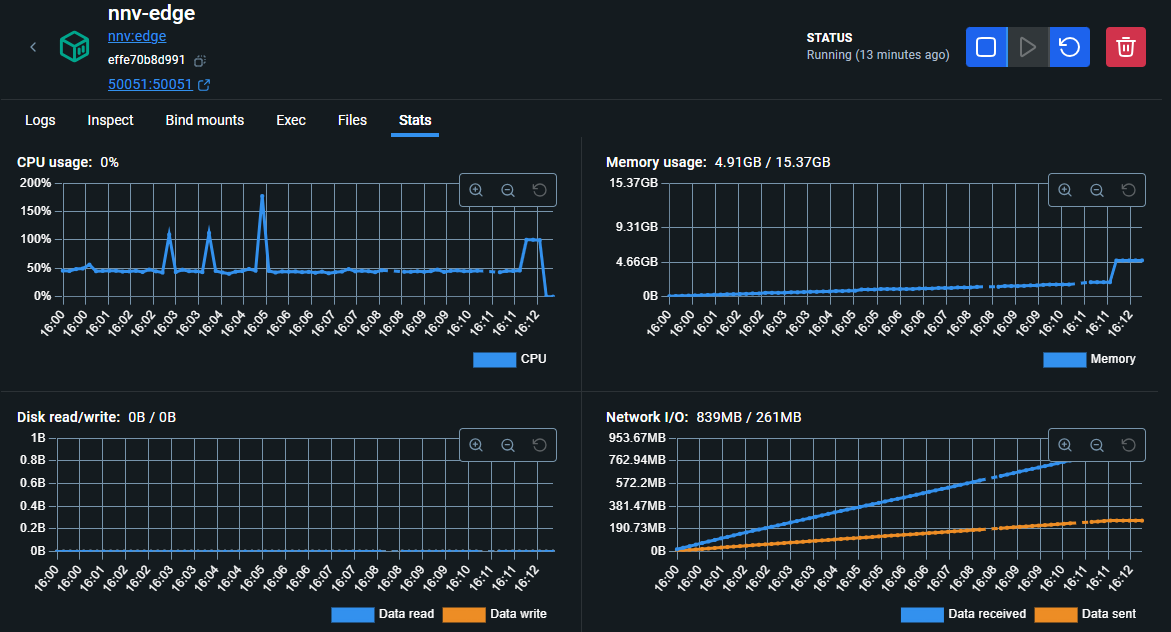
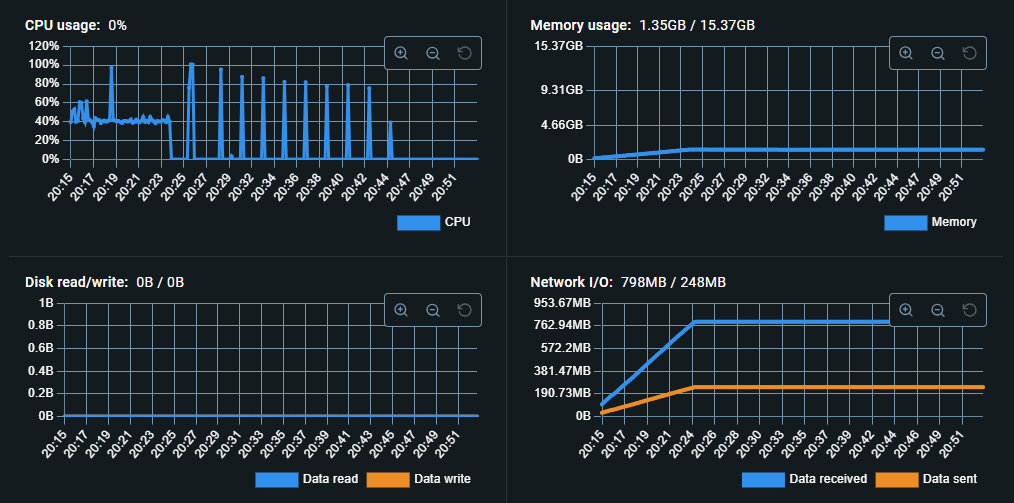
UPDATE 11.20

diff --git a/README.md b/README.md
@@ -4,7 +4,7 @@
 
 NNV (No-Named.V) is a database designed to be implemented from scratch to production. NNV can be deployed in edge environments and used in small-scale production settings. Through the innovative architectural approach described below, it is envisioned and developed to be used reliably in large-scale production environments as well.
 
-## 🎉 Release Update - 2024.11.14
+## 🎉 Release Update - 2024.11.20
 
 For the full update history, see [UPDATE HISTORY](./UPDATE-LOG.md).
 
@@ -12,22 +12,30 @@ For the full update history, see [UPDATE HISTORY](./UPDATE-LOG.md).
 
 ### 🔹 NNV-Edge
 
-- No updates in this release.
+Please [note](./examples/release/2024_11_20_release.md) that the performance comparison is not intended to evaluate the superiority of the software. There are still many shortcomings, and although the repository's history is short, I just want to show indicators of steady progress.
+
+#### Enhancements
+
+- **Edge Performance Improvement**: Enhanced the performance of Edge.
+- **Decreased Storage Requirement**: Reduced the storage needed for 1,000,000 128-dimensional vectors from **2.5GB** to **1.35GB** (Milvus: **1.46GB**).
+- **Average Search Time** for 1,000,000 128-dimensional vectors: **0.22 sec** (Milvus: **0.04 sec**).
+- **Continuous Performance Enhancement**:
+  - Clearly identified points for ongoing performance improvements.
+  - Discovered that efficient parallel search using a worker pool and iterating over the vector space as an array significantly boosts performance.
+  - These enhancements require rewriting specific code sections and are planned for long-term development.
+  - Retrieving all data from disk introduces overhead; therefore, combining disk access with memory usage is necessary.
+- **Data Storage**: Data is stored on disk with only the flush operation for indexing remaining.
+- **Safe Recovery**: Even if the server crashes, indexes and all data can be safely recovered.
 
 ---
 
 ### 🔹 NNV
 
-See the [detailed comparison with ChromaDB for search results](./examples/release/2024_11_14_release.md).
-
-#### Enhancements
-
-- **Restored HNSW**: The previously used HNSW algorithm has been reintroduced.
-- **New Product Quantization (PQ)**: HNSW Product Quantization has been added for improved efficiency.
-- **Pure Go Implementation**: All CGO dependencies have been removed, making the implementation entirely in Go.
-- **Optimized Search Speed**:
-  - 50,000-item dataset: **< 14ms**
-  - 10,000-item dataset or fewer: **< 3ms**
+- **README Revamp**: The README will be updated soon.
+- **Improved HNSW Development**: A more advanced HNSW algorithm is planned for development.
+- **Continued Testing of PQ**: PQ (Product Quantization) is continuously being tested. According to Weaviate's documentation, PQ performs very poorly on datasets with tens of thousands of data points. I am experiencing this myself. (https://weaviate.io/blog/pq-rescoring)
+- **Development of BQ (Binary Quantizer)**: Development of BQ is scheduled.
+- **Quantization of HNSW with F8, F16, BF16**: In this development phase, we are also considering quantizing HNSW with F8, F16, and BF16. (Applying this is not difficult; the challenge is figuring out how BQ and PQ will compete.)
 
 ---
 

diff --git a/UPDATE-LOG.md b/UPDATE-LOG.md
@@ -1,17 +1,50 @@
-### Release Update (2024.11.14)
+## 🎉 Release Update - 2024.11.20
 
-#### NNV-Edge
+### 🔹 NNV-Edge
 
-- Nothing
+#### Enhancements
 
-#### NNV
+- **Edge Performance Improvement**: Enhanced the performance of Edge.
+- **Decreased Storage Requirement**: Reduced the storage needed for 1,000,000 128-dimensional vectors from **2.5GB** to **1.35GB** (Milvus: **1.46GB**).
+- **Average Search Time** for 1,000,000 128-dimensional vectors: **0.22 sec** (Milvus: **0.04 sec**).
+- **Continuous Performance Enhancement**:
+  - Clearly identified points for ongoing performance improvements.
+  - Discovered that efficient parallel search using a worker pool and iterating over the vector space as an array significantly boosts performance.
+  - These enhancements require rewriting specific code sections and are planned for long-term development.
+  - Retrieving all data from disk introduces overhead; therefore, combining disk access with memory usage is necessary.
+- **Data Storage**: Data is stored on disk with only the flush operation for indexing remaining.
+- **Safe Recovery**: Even if the server crashes, indexes and all data can be safely recovered.
 
-- The previously used HNSW has been restored.
-- HNSW Product Quantization has been added.
-- CGO dependencies have been removed, and it is now implemented purely in Go.
-- Some tests have been conducted.
-- Search speed for a dataset of 50,000 items: < 14ms
-- Search speed for datasets of 10,000 items or fewer: < 3ms
+---
+
+### 🔹 NNV
+
+- **README Revamp**: The README will be updated soon.
+- **Improved HNSW Development**: A more advanced HNSW algorithm is planned for development.
+- **Continued Testing of PQ**: PQ (Product Quantization) is continuously being tested. According to Weaviate's documentation, PQ performs very poorly on datasets with tens of thousands of data points. I am experiencing this myself. (https://weaviate.io/blog/pq-rescoring)
+- **Development of BQ (Binary Quantizer)**: Development of BQ is scheduled.
+- **Quantization of HNSW with F8, F16, BF16**: In this development phase, we are also considering quantizing HNSW with F8, F16, and BF16. (Applying this is not difficult; the challenge is figuring out how BQ and PQ will compete.)
+
+## 🎉 Release Update - 2024.11.14
+
+### 🔹 NNV-Edge
+
+- No updates in this release.
+
+---
+
+### 🔹 NNV
+
+See the [detailed comparison with ChromaDB for search results](./examples/release/2024_11_14_release.md).
+
+#### Enhancements
+
+- **Restored HNSW**: The previously used HNSW algorithm has been reintroduced.
+- **New Product Quantization (PQ)**: HNSW Product Quantization has been added for improved efficiency.
+- **Pure Go Implementation**: All CGO dependencies have been removed, making the implementation entirely in Go.
+- **Optimized Search Speed**:
+  - 50,000-item dataset: **< 14ms**
+  - 10,000-item dataset or fewer: **< 3ms**
 
 ### Release Update (2024.11.11)
 

diff --git a/examples/release/2024_11_20_release.md b/examples/release/2024_11_20_release.md
@@ -1,0 +1,32 @@
+# NNV Compare Milvus(The most famous vector DB)
+
+## Resources when inserting a million vectors
+
+### Milvus
+
+![png1](../assets/v1compare/milvus-bench-flat.png)
+
+### NNV (Only Memory Before GC) - (Before Performance Upgrade)
+
+![png2](../assets/v1compare/nnv-edge-cache.png)
+
+### After GC - (Before Performance Upgrade)
+
+![png3](../assets/v1compare/nnv-edge-cache-gc.png)
+
+### NNV - (Performance Upgrade)
+
+![png4](../assets/v1compare/nnv-disk.png)
+
+## Insert Compare (Before Performance Upgrade VS Performance Upgrade)
+
+![png5](../assets/v1compare/insert-comp.png)
+
+- Memory is the fastest but has lower data safety and is very expensive.
+
+## NNV Compare Milvus Insert
+
+![png6](../assets/v1compare/insert-comp.png)
+
+- This is simply a difference in insertion speed, and Milvus is still actually 10 times faster. While insertion time can be important, Milvus has many internal compression processes, so this is just a simple metric and does not indicate software superiority.
+- Additionally, Milvus supports batch insertion, which has not been tested.
